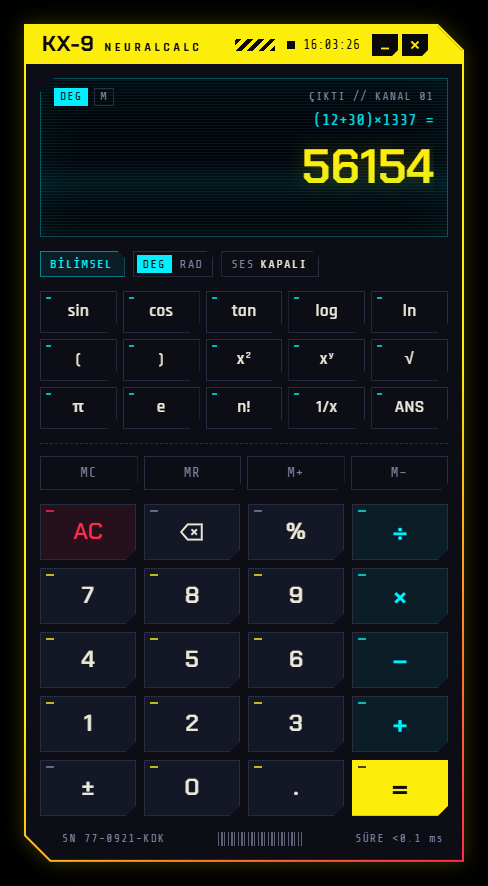
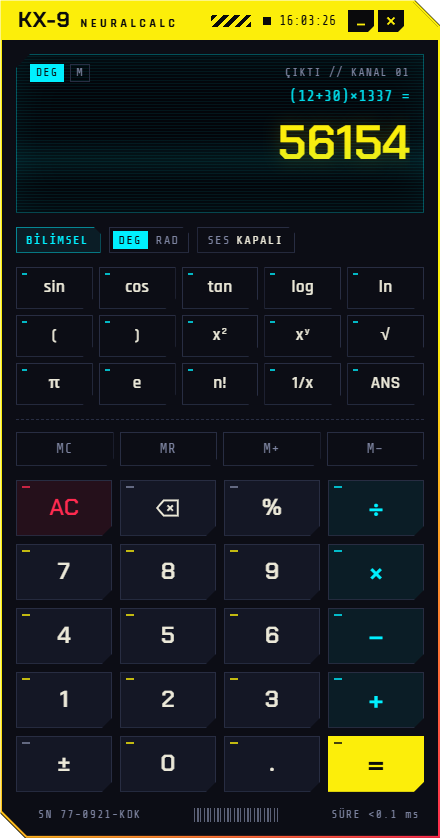
README: transparent cut corners on screenshots, static release badge
The window captures had opaque black corners (and NeuralCalc a black margin), which
showed as dark boxes on GitHub's light theme. The release badge is static so it
cannot show a cached "no releases" state.

diff --git a/README.md b/README.md
@@ -3,7 +3,7 @@
 </p>
 
 <p align="center">
-  <a href="https://github.com/yigitcakmakci/neural-series/releases/latest"><img src="https://img.shields.io/github/v/release/yigitcakmakci/neural-series?style=for-the-badge&label=release&labelColor=0c0d15&color=fcee0a" alt="Latest release"></a>
+  <a href="https://github.com/yigitcakmakci/neural-series/releases/latest"><img src="https://img.shields.io/badge/release-v1.0.0-fcee0a?style=for-the-badge&labelColor=0c0d15" alt="Release v1.0.0"></a>
   <img src="https://img.shields.io/badge/codename-Neo--Istanbul-00f0ff?style=for-the-badge&labelColor=0c0d15" alt="Codename: Neo-Istanbul">
   <img src="https://img.shields.io/badge/Windows-10%20%7C%2011%20x64-00f0ff?style=for-the-badge&labelColor=0c0d15" alt="Windows 10 and 11, 64-bit">
   <img src="https://img.shields.io/badge/Electron-44.5.1-00f0ff?style=for-the-badge&labelColor=0c0d15" alt="Electron 44.5.1">
